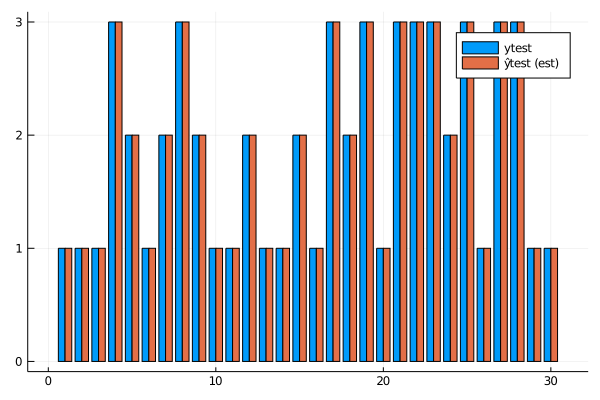
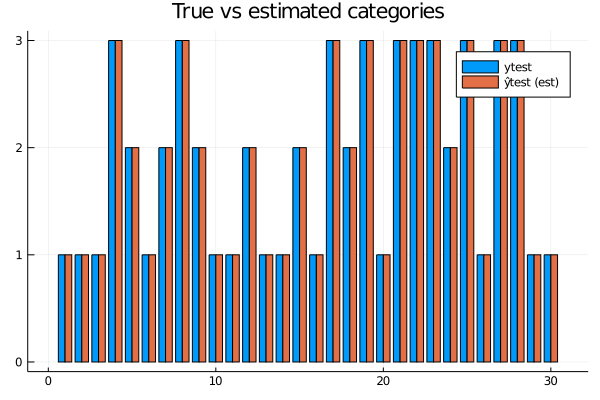
Modified readme

diff --git a/README.md b/README.md
@@ -40,7 +40,7 @@ A proper documentation is work in progress.
 
 ```julia
 # Load Modules
-using Bmlt.Nn, DelimitedFiles, Random, Plots # Load the main module and ausiliary modules
+using Bmlt.Nn, DelimitedFiles, Random, StatsPlots # Load the main module and ausiliary modules
 Random.seed!(123); # Fix the random seed (to obtain reproducible results)
 
 # Load the data
@@ -76,7 +76,7 @@ testAccuracy  = accuracy(ŷtest,ytest,tol=1)   # 1.0
 # Visualise results
 testSize = size(ŷtest,1)
 ŷtestChosen =  [argmax(ŷtest[i,:]) for i in 1:testSize]
-groupedbar([ytest ŷtestChosen], label=["ytest" "ŷtest (est)"]) # All records correctly labelled !
+groupedbar([ytest ŷtestChosen], label=["ytest" "ŷtest (est)"], title="True vs estimated categories") # All records correctly labelled !
 plot(0:res.epochs,res.ϵ_epochs, ylabel="epochs",xlabel="error",legend=nothing,title="Avg. error per epoch on the Sepal dataset")
 ```
 
